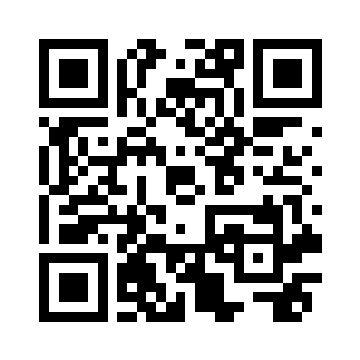
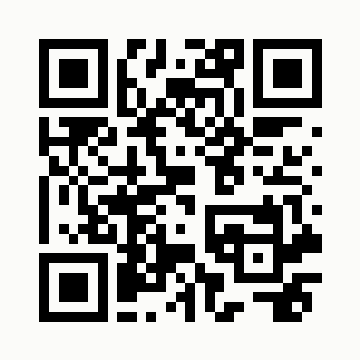
Updates a nyumber of events on the site

Changed region(s): [[0.0917, 0.0917, 0.6417, 0.9167], [0.5194, 0.4889, 0.5806, 0.6111]]

diff --git a/docs/events/nov-2026.md b/docs/events/nov-2026.md
@@ -1,15 +1,15 @@
 ---
 ## Tile - seperate bands with a +
-title: The Manifestation Group + Messy Eater
+title: Lords Of MisRule + TBC
 #sub-title: 
-event-date: 2026-07-17
+event-date: 2026-11-20
 ## rumble number should be an integer
-rumble-number: 18
+rumble-number: 22
 ## Generate a SumUp link for this event. Include https://
-sumupLink: https://pay.sumup.com/b2c/Q8K07NA1
+sumupLink: https://pay.sumup.com/b2c/QYYPO550
 layout: page
 #cover: splashes/small-gauge.jpg #No leading slash
-cover: splashes/the-manifestation-group.jpg
+cover: splashes/lords-of-misrule.jpg
 #image-credit: 
 navigation: true
 ---

diff --git a/docs/events/sep-2026.md b/docs/events/sep-2026.md
@@ -1,15 +1,15 @@
 ---
 ## Tile - seperate bands with a +
-title: The Manifestation Group + Messy Eater
+title: Tiger Island + Whiskeyhead
 #sub-title: 
-event-date: 2026-07-17
+event-date: 2026-09-25
 ## rumble number should be an integer
-rumble-number: 18
+rumble-number: 20
 ## Generate a SumUp link for this event. Include https://
-sumupLink: https://pay.sumup.com/b2c/Q8K07NA1
+sumupLink: https://pay.sumup.com/b2c/Q0YEQ6PQ
 layout: page
 #cover: splashes/small-gauge.jpg #No leading slash
-cover: splashes/the-manifestation-group.jpg
+cover: splashes/tiger-island.jpg
 #image-credit: 
 navigation: true
 ---

diff --git a/docs/events/dec-2026.md b/docs/events/dec-2026.md
@@ -1,15 +1,15 @@
 ---
 ## Tile - seperate bands with a +
-title: The Manifestation Group + Messy Eater
+title: The Light Show + TBC
 #sub-title: 
-event-date: 2026-07-17
+event-date: 2026-12-18
 ## rumble number should be an integer
-rumble-number: 18
+rumble-number: 23
 ## Generate a SumUp link for this event. Include https://
-sumupLink: https://pay.sumup.com/b2c/Q8K07NA1
+sumupLink: https://pay.sumup.com/b2c/QJVQ4NY4
 layout: page
 #cover: splashes/small-gauge.jpg #No leading slash
-cover: splashes/the-manifestation-group.jpg
+cover: splashes/the-light-show.jpg
 #image-credit: 
 navigation: true
 ---

diff --git a/docs/index.md b/docs/index.md
@@ -10,7 +10,7 @@ current: home
 # in _includes/head.html to make use of the data below using e.g. film.main-image
 # Defaults to use if no 'next film'
 # cover: splashes/tiger-island_rumble.jpg
-cover: splashes/gilank_live.jpg
+cover: splashes/david-cronenbergs-wife_2.jpg
 ---
 <!-- < default -->
 <!-- The tag above means - insert everything in this file into the [body] of the default.hbs template -->

diff --git a/docs/_includes/main.md b/docs/_includes/main.md
@@ -21,7 +21,7 @@
 
 <h2 class="text-center all-gigs">Most of our gigs are on the Third Friday Of The Month</h2>
 
-**Exceptions for 2026: April 24th 2026, May 29th 2026, September 2026 (TBC)**
+**Exceptions for 2026: 25th September 2026**
 {: class="text-center"}
 
 {% capture upcoming-events %}{% include upcoming-events.md %}{% endcapture %}
